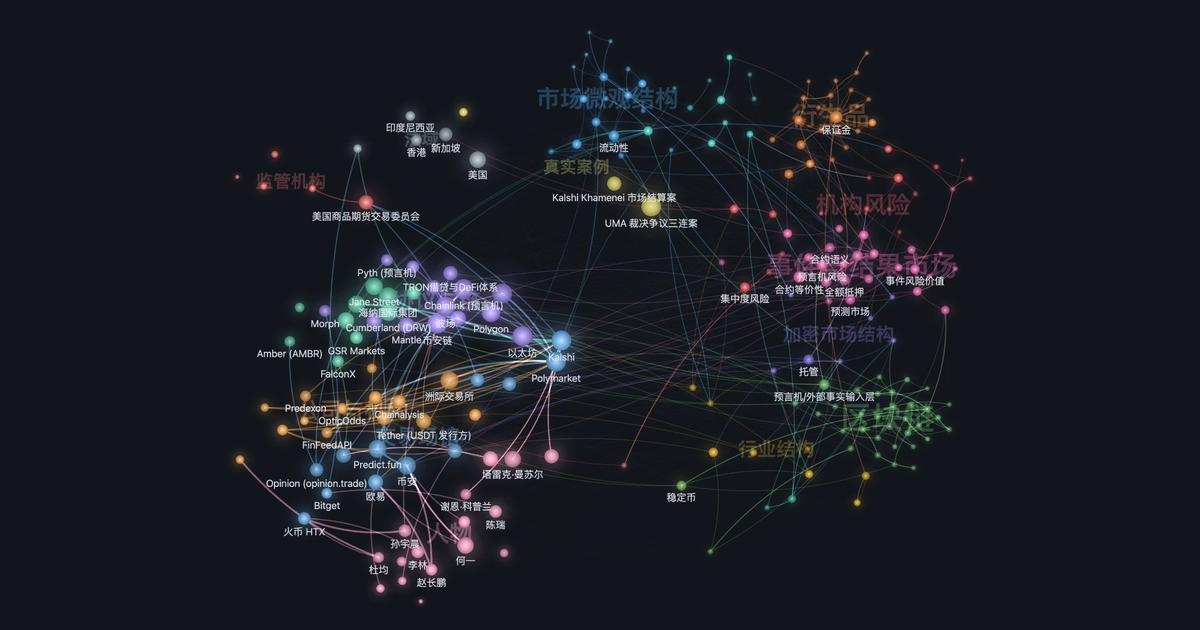
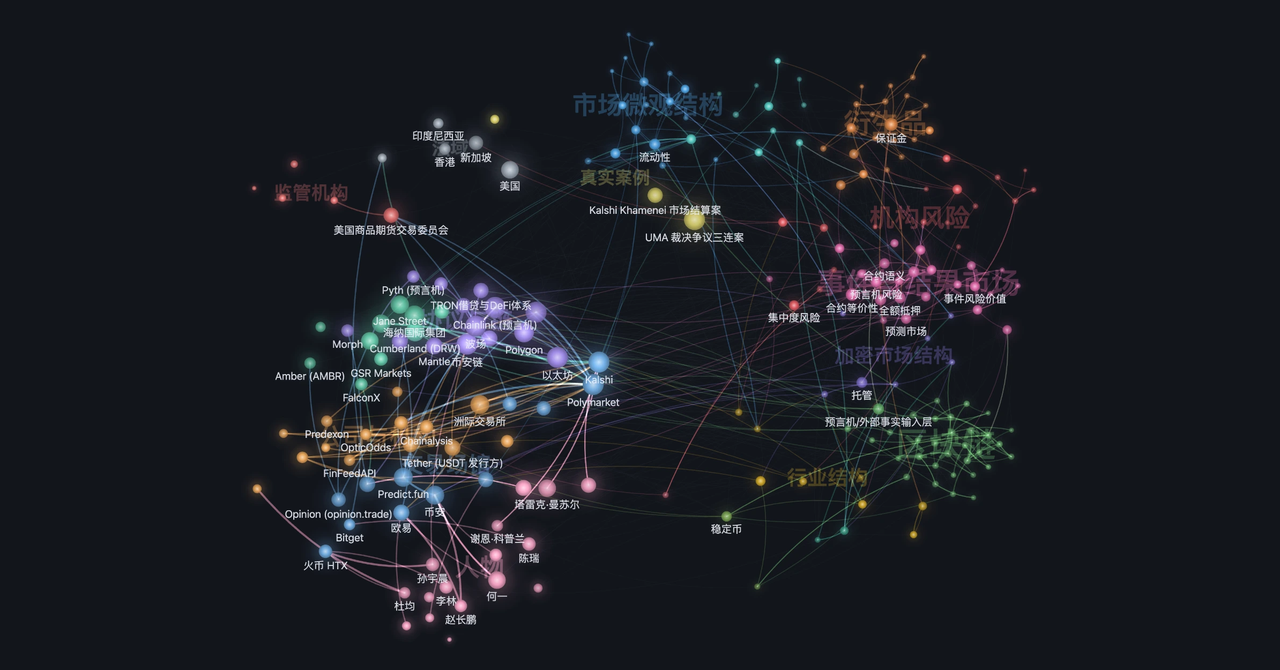
Card at 1280x670 — 1.91:1 for social, and GitHub's recommended width
GitHub asks for at least 1280px wide for best display; the social platforms want
1.91:1. 1280x670 is both, so one image serves the repo preview and the site's
og:image without either being rescaled.

diff --git a/scripts/learning_view_template.html b/scripts/learning_view_template.html
@@ -12,8 +12,8 @@
 <meta property="og:url" content="https://ailinsun.github.io/cryptoatlas/">
 <meta property="og:image" content="https://ailinsun.github.io/cryptoatlas/social-card.png">
 <meta property="og:image:type" content="image/png">
-<meta property="og:image:width" content="1200">
-<meta property="og:image:height" content="630">
+<meta property="og:image:width" content="1280">
+<meta property="og:image:height" content="670">
 <meta property="og:image:alt" content="CryptoAtlas 知识图谱">
 <meta name="twitter:card" content="summary_large_image">
 <meta name="twitter:title" content="CryptoAtlas — 加密市场结构知识库">
